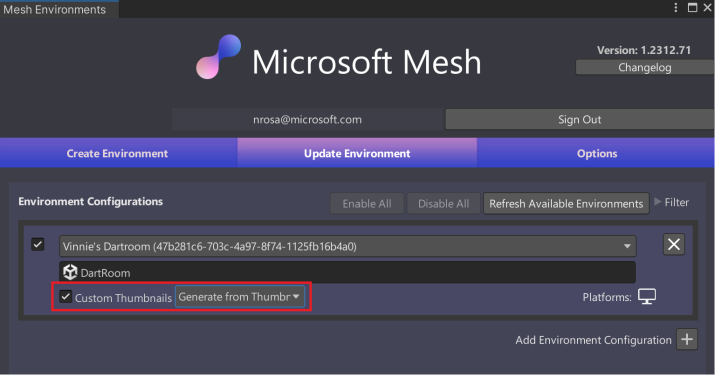
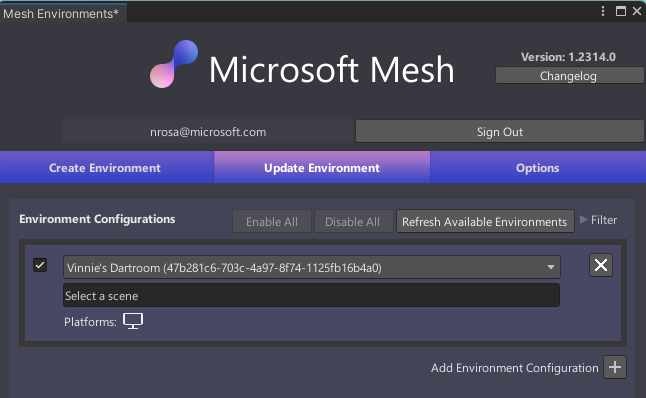
Changes related to thumbnails

Changed region(s): [[0.0, 0.0, 1.0, 1.0], [0.2167, 0.088, 0.7121, 0.2347], [0.0, 0.0, 0.2167, 0.0587]]

diff --git a/mesh/develop/build-your-basic-environment/set-up-your-scene.md b/mesh/develop/build-your-basic-environment/set-up-your-scene.md
@@ -26,7 +26,8 @@ Every scene must have at least one *travel point*, which is used to configure av
 
 ## Add the Mesh Thumbnail Camera
 
-Adding the *Mesh Thumbnail Camera* provides a thumbnail image that will be
+Every time you upload your environment, a thumbnail of your scene will be captured based on the TravelPoint component and LookAt property using the *MeshThumbnailCamera*, however you can also add your own *MeshThumbnailCamera* and position it wherever you like.
+The *Mesh Thumbnail Camera* provides a thumbnail image that will be
 added to your Environment's listing in the Mesh Portal and its
 selection button in the Mesh app. This comes in handy when you're
 selecting Environments in either place because it gives you a visual
@@ -46,10 +47,12 @@ reminder of what the Environment looks like.
     view appears in a small window in the lower right of the **Scene**
     window.
 
-> **Note**: If you decide you want a different view for the Thumbnail
+> **Note 1**: If you decide you want a different view for the Thumbnail
 > Camera, you can adjust the Camera GameObject directly in the **Scene**
 > window or change its **Position** and **Rotation** values in the
 > **Inspector** prior to uploading your Environment to Mesh.
+
+> **Note 2**: You can also add the camera as a child of a game object by clicking with the right button of the mouse in the game object and choosing **Mesh Toolkit** > **Thumbnail Camera**. The camera position in this case will be 0 so it is important to adjust the position and rotation.
 
 There are no set rules for how your thumbnail should look---it's totally
 up to you. The example below is taken from our [Mesh 101 tutorial](../../develop/getting-started/mesh-101-tutorial/mesh-101-01-overview-and-setup.md). The tutorial teaches you how to add Mesh features to an educational experience about wind turbines, so the thumbnail shows the turbines.

diff --git a/mesh/Create/getting-started/mesh-101-tutorial/mesh-101-05-make-environment-available.md b/mesh/Create/getting-started/mesh-101-tutorial/mesh-101-05-make-environment-available.md
@@ -83,11 +83,6 @@ building for single and multiple platforms, see our article titled [Build for si
 
     ![A screenshot of a computer Description automatically generated](../../../media/sample-mesh-101/456-select-scene.png)
 
-1. Select **Include Thumbnails**. Leave the setting as **Generate
-    Thumbnails**.
-
-    ![](../../../media/sample-mesh-101/image094.jpg)
-
 In the **Build for Platforms** section, you choose which platforms to
 build for. Note that when a button background is gray, the button is
 "on"; when the background is black, the button is "off." We're building

diff --git a/mesh/develop/getting-started/mesh-101-tutorial/mesh-101-05-make-environment-available.md b/mesh/develop/getting-started/mesh-101-tutorial/mesh-101-05-make-environment-available.md
@@ -84,11 +84,6 @@ building for single and multiple platforms, see our article titled [Build for si
 
     ![A screenshot of a computer Description automatically generated](../../../media/sample-mesh-101/456-select-scene.png)
 
-1. Select **Include Thumbnails**. Leave the setting as **Generate
-    Thumbnails**.
-
-    ![](../../../media/sample-mesh-101/image094.jpg)
-
 In the **Build for Platforms** section, you choose which platforms to
 build for. Note that when a button background is gray, the button is
 "on"; when the background is black, the button is "off." We're building

diff --git a/mesh/develop/make-your-environment-available/publish-multiple-environments.md b/mesh/develop/make-your-environment-available/publish-multiple-environments.md
@@ -6,7 +6,7 @@ author: typride
 ms.author: iankudinova
 ms.date: 10/11/2023
 ms.topic: Guide
-keywords: Microsoft Mesh, environment, Unity, build, publish, build and publish, uploader, Mesh uploader, thumbnail, filter, multiple
+keywords: Microsoft Mesh, environment, Unity, build, publish, build and publish, uploader, Mesh uploader, filter, multiple
 ---
 
 # Publish multiple environments from one Unity project
